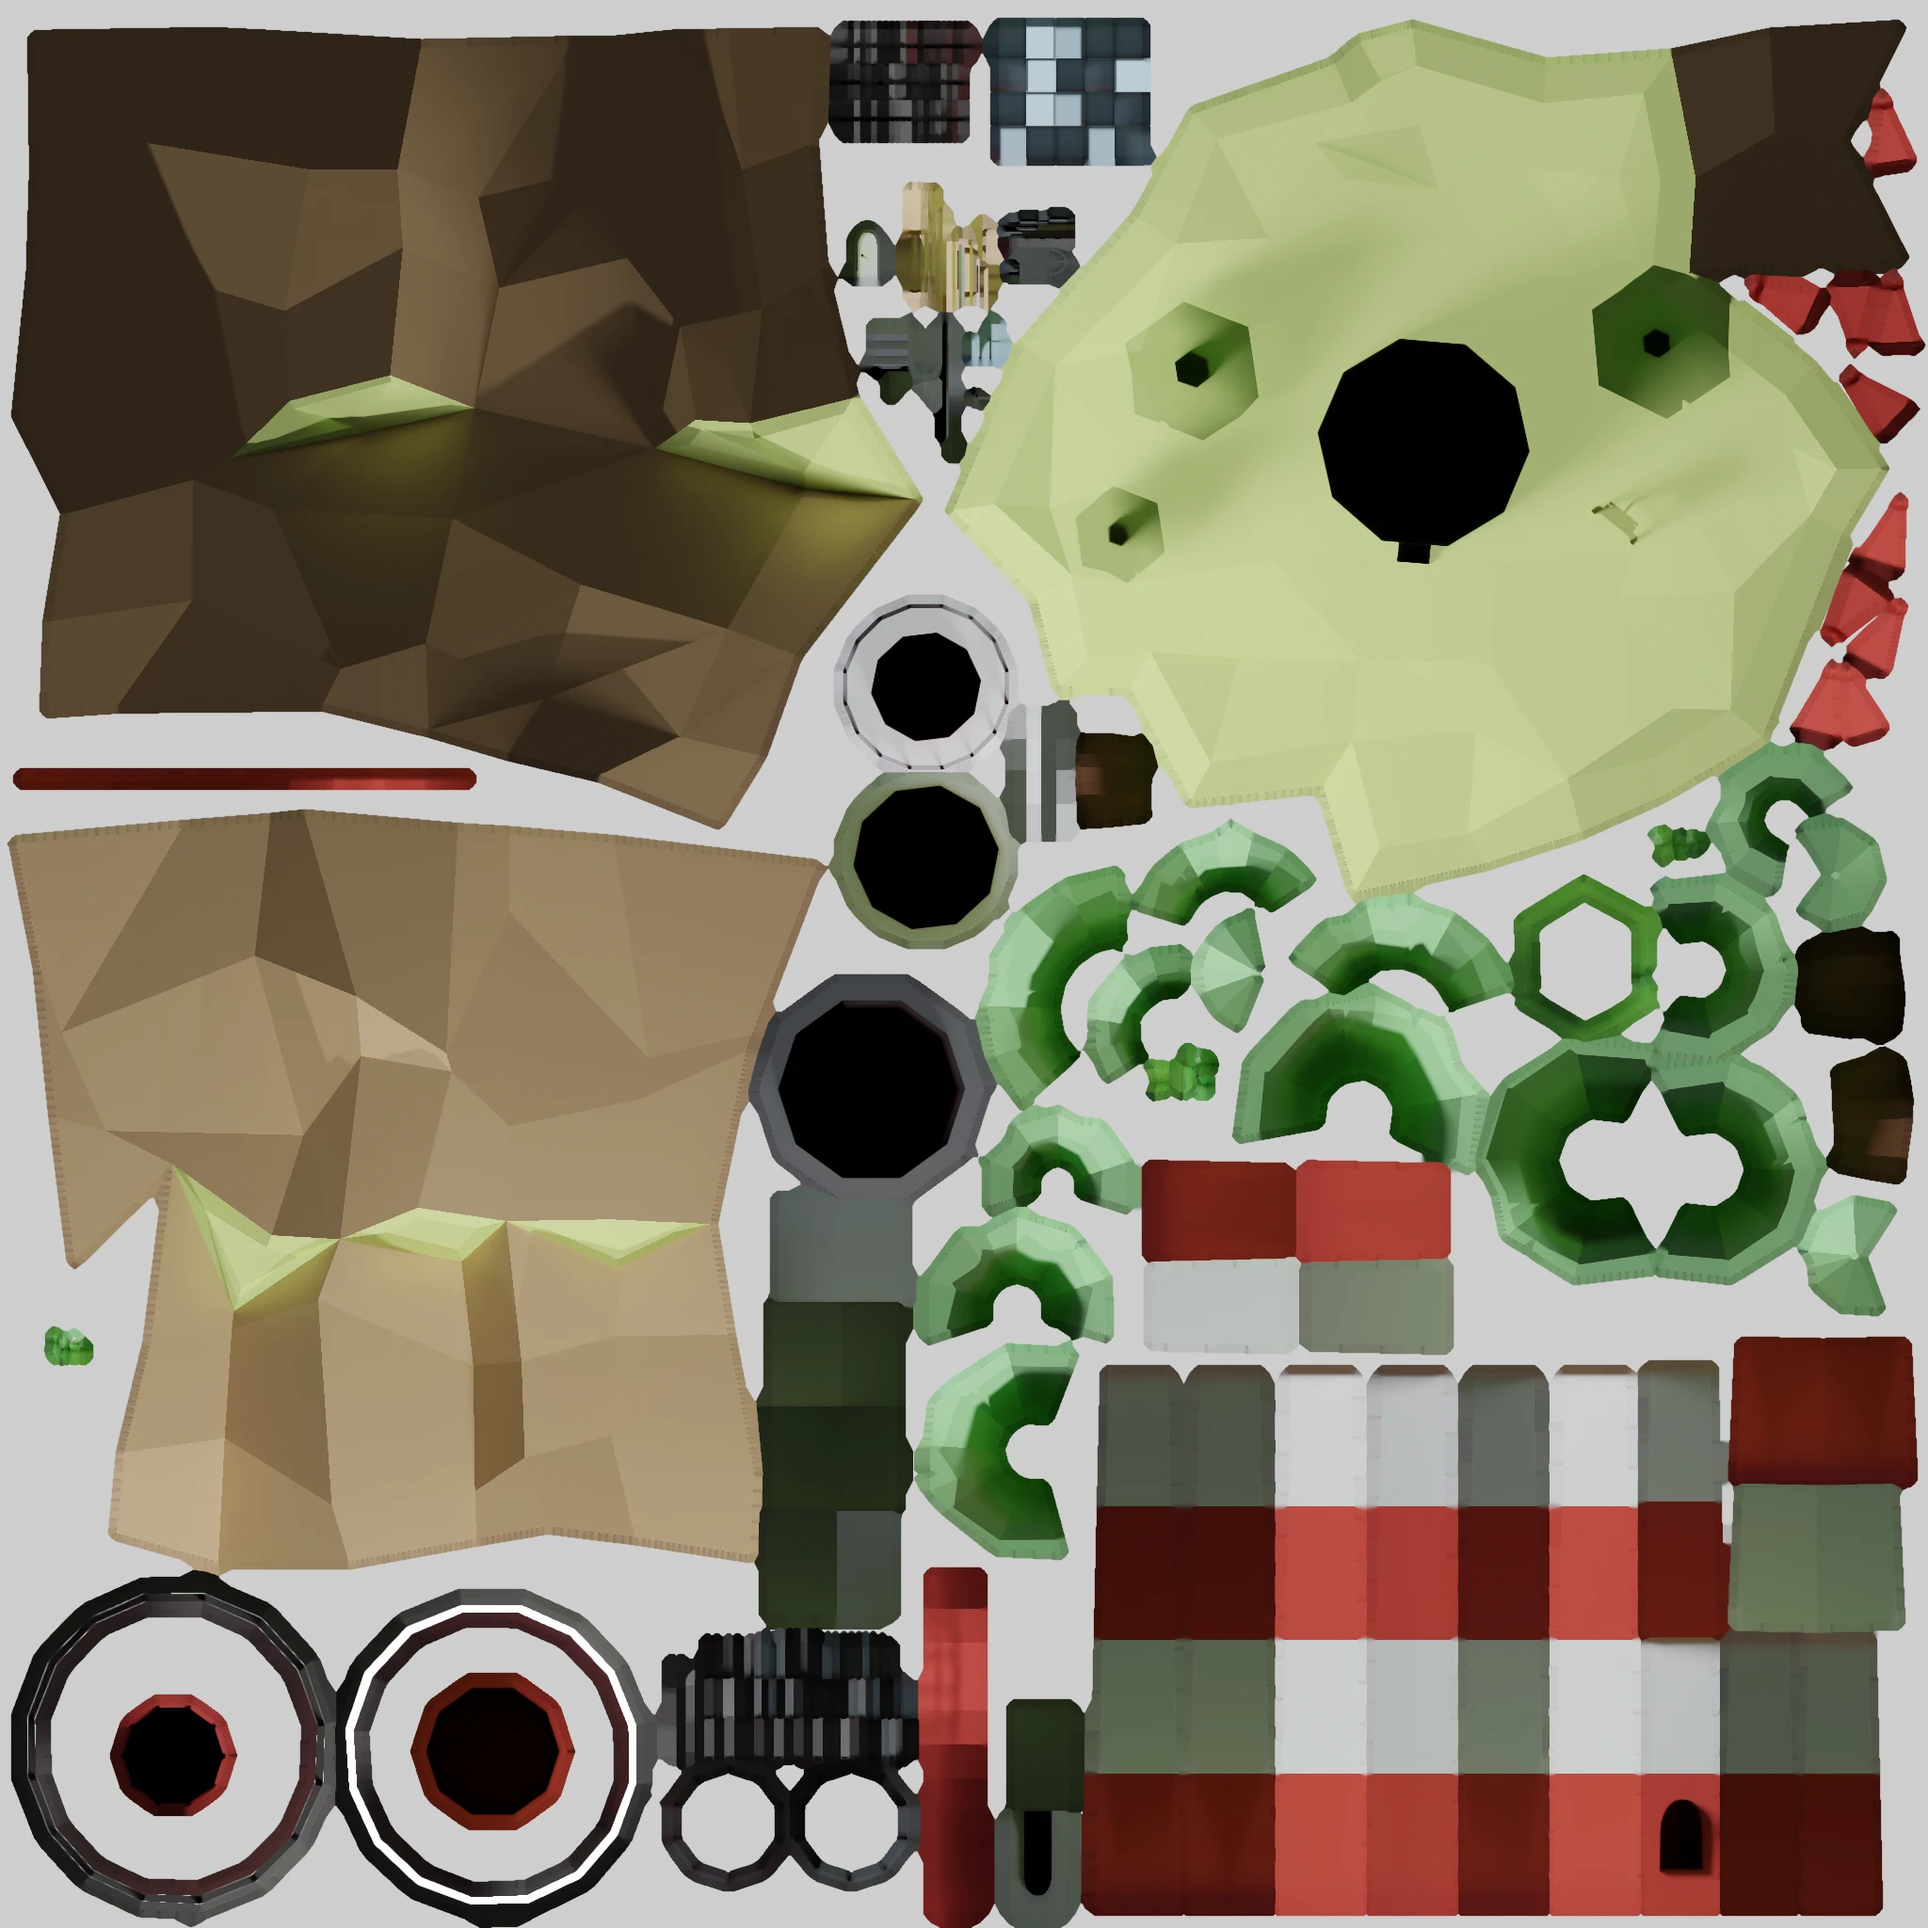
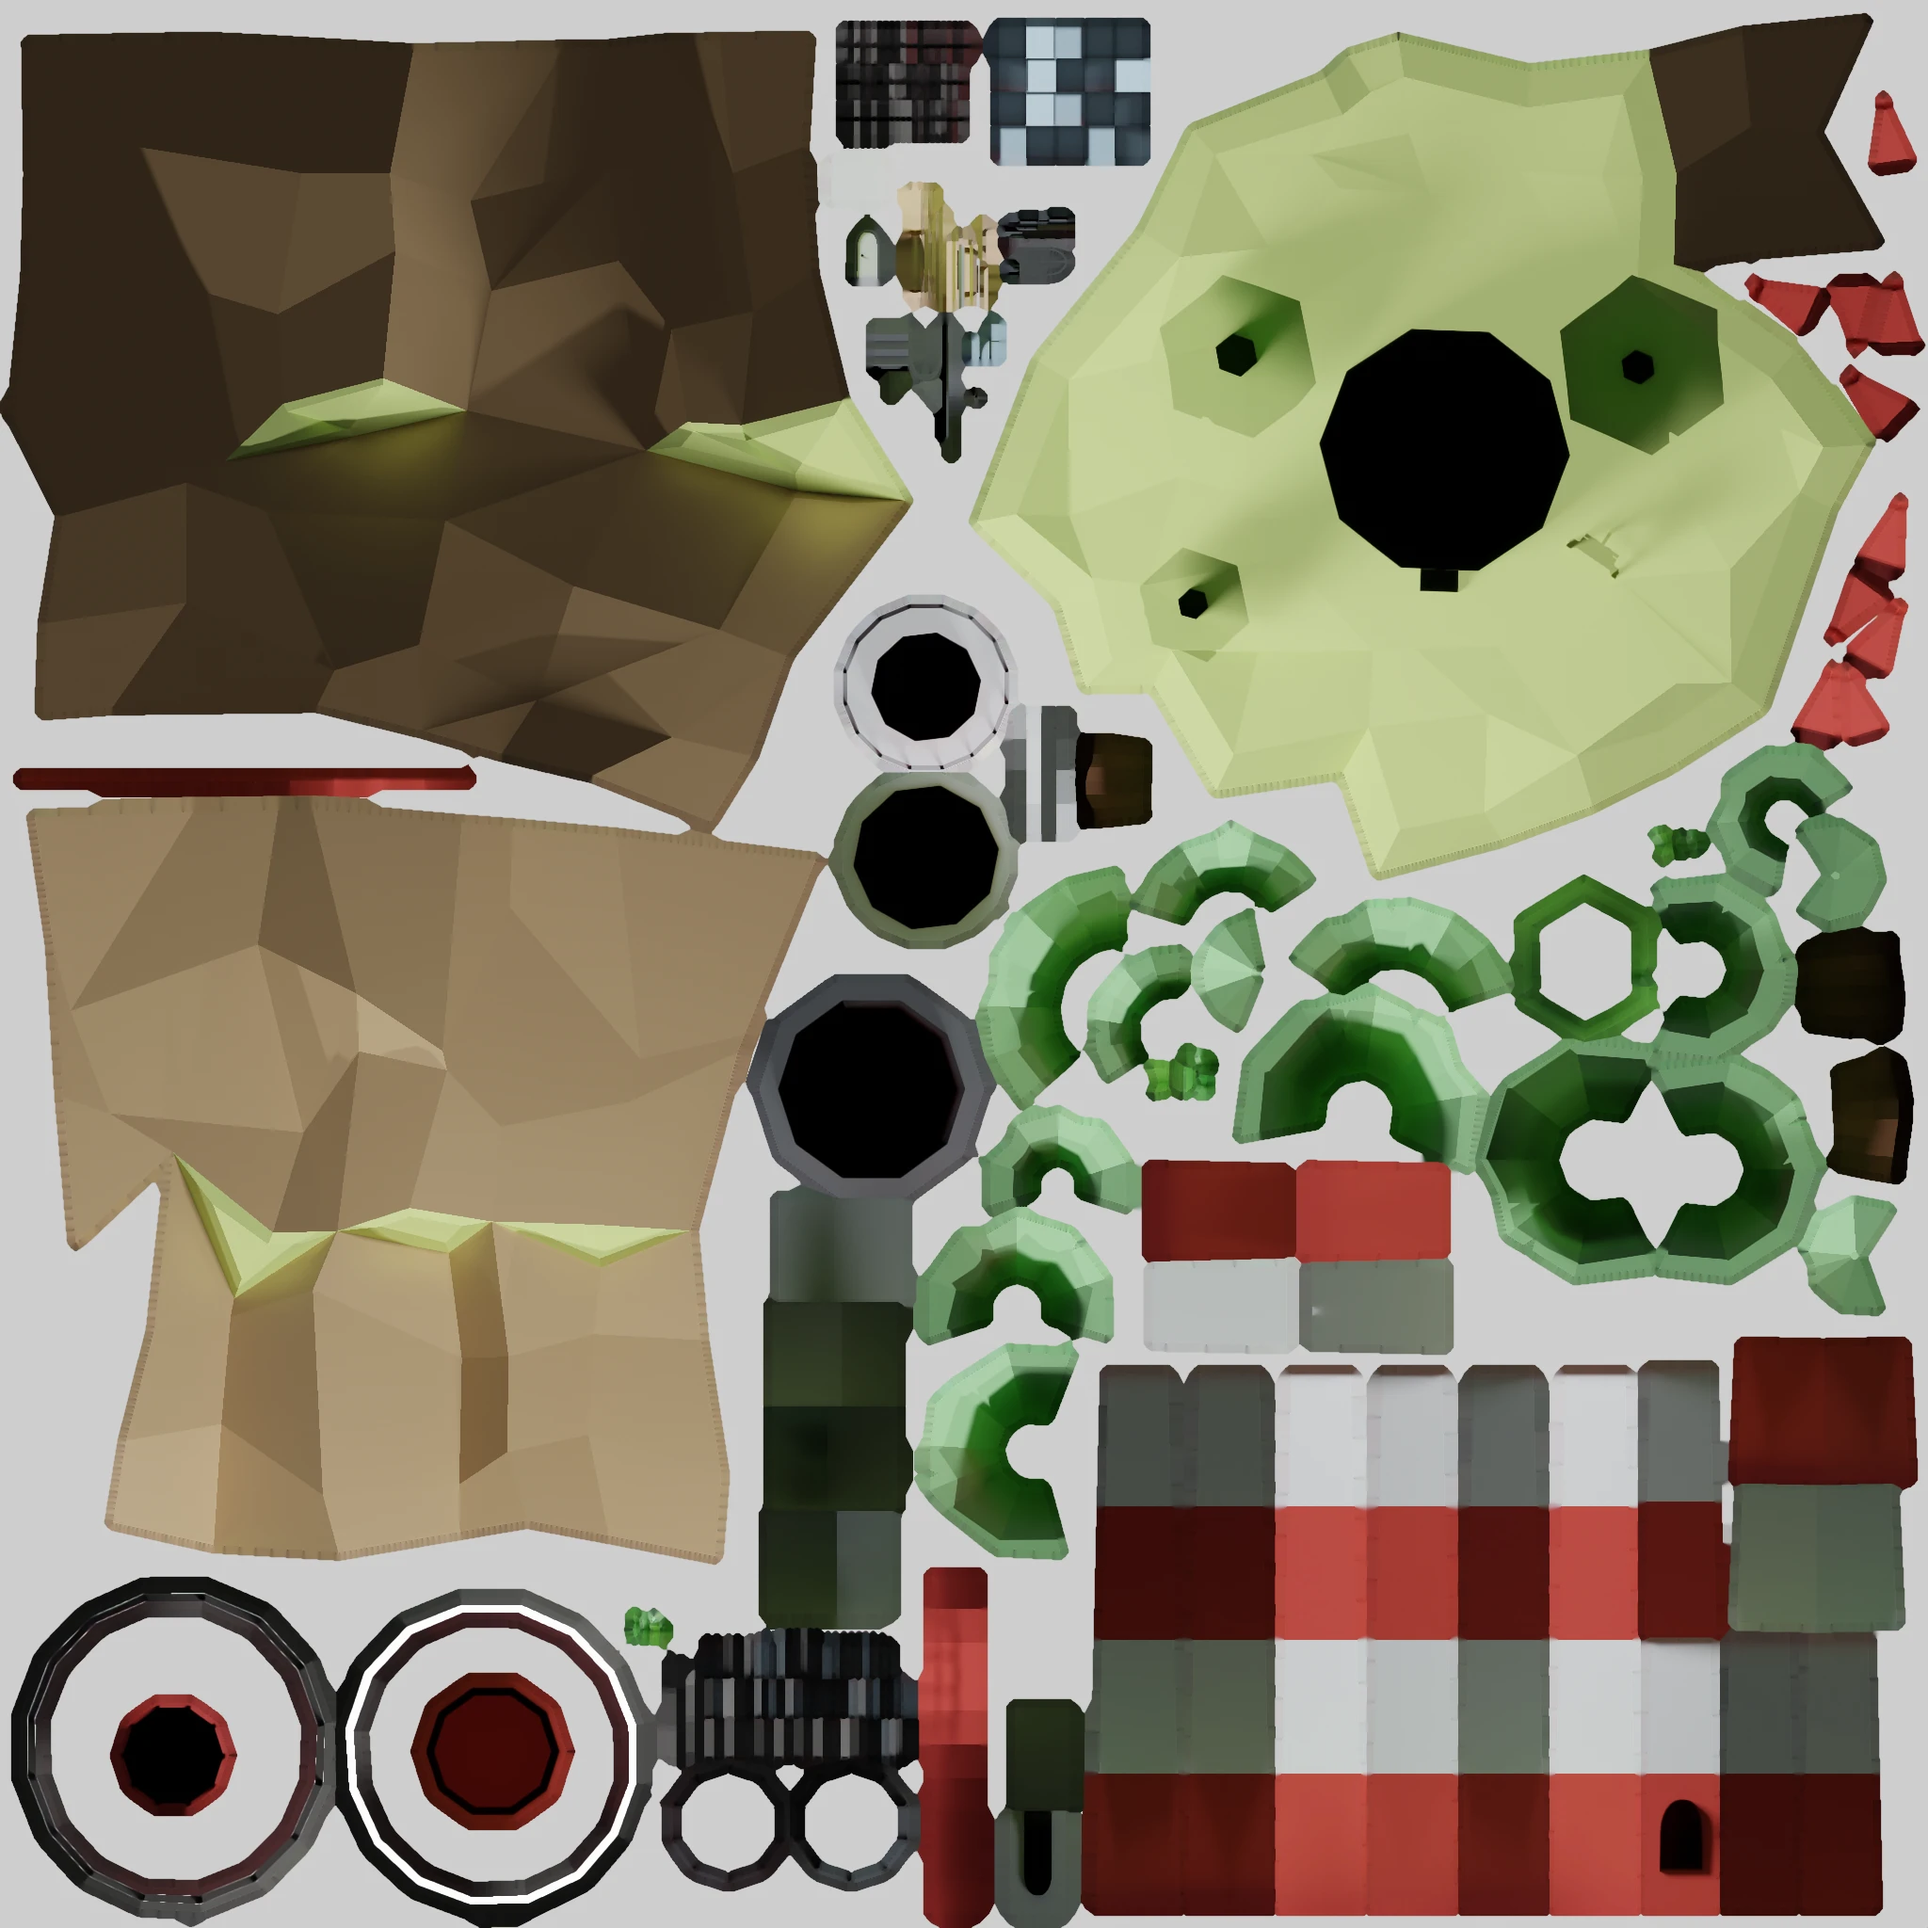
feat: update lighthouse model

diff --git a/src/components/experience/LighthouseModel.tsx b/src/components/experience/LighthouseModel.tsx
@@ -22,7 +22,7 @@ interface CanvasPhotosUniforms {
 declare module '@react-three/fiber' {
     interface ThreeElements {
         canvasPhotosMaterial: Object3DNode<typeof CanvasPhotosMaterial, typeof CanvasPhotosMaterial> &
-            CanvasPhotosUniforms
+        CanvasPhotosUniforms
     }
 }
 
@@ -40,33 +40,42 @@ const CanvasPhotosMaterial = shaderMaterial(
 
 extend({ CanvasPhotosMaterial })
 
+
 type GLTFResult = GLTF & {
     nodes: {
-        canvas: THREE.Mesh
-        lightHouse: THREE.Mesh
-        wall: THREE.Mesh
-        ['1stFloor']: THREE.Mesh
-        globe: THREE.Mesh
-        lightBulb: THREE.Mesh
-        ['2ndFloor']: THREE.Mesh
-    }
-    materials: {}
-}
+        lightHouse: THREE.Mesh;
+        wall: THREE.Mesh;
+        ["1stFloor"]: THREE.Mesh;
+        globe: THREE.Mesh;
+        lightBulb: THREE.Mesh;
+        ["2ndFloor"]: THREE.Mesh;
+    };
+    materials: {};
+};
 
 export default function LighthouseModel(props: JSX.IntrinsicElements['group']) {
     const { isLightMode } = useContext(AppContext)
     const canvasPhotosRef = useRef<unknown>()
     const { nodes } = useGLTF('/lighthouse.glb') as GLTFResult
     // const { nodes } = useGLTF('/lighthouse.glb') as GLTFResult
-    const [lighthouseTexture, firstFloorTexture, davidArtTexture, davidPhotoTexture, displacementTexture] = useTexture([
+    const [
+        lighthouseTexture,
+        firstFloorTexture,
+        secondFloorTexture,
+        davidArtTexture,
+        davidPhotoTexture,
+        displacementTexture
+    ] = useTexture([
         '/lighthouse_bake.webp',
         '/lighthouse_1stFloor_bake.webp',
+        '/lighthouse_2ndFloor_bake.webp',
         '/david_art.webp',
         '/david_photo.webp',
         '/water_displacement_map.jpg'
     ])
     lighthouseTexture.flipY = false
     firstFloorTexture.flipY = false
+    secondFloorTexture.flipY = false
 
     // const { position, rotation } = useControls('Canvas', {
     //     position: {
@@ -98,8 +107,8 @@ export default function LighthouseModel(props: JSX.IntrinsicElements['group']) {
                 1.4,
                 delta
             ) as number
-            ;(canvasPhotosRef as React.MutableRefObject<CanvasPhotosUniforms>).current.uDisplacementFactor =
-                dampedDisplacementFactor
+                ; (canvasPhotosRef as React.MutableRefObject<CanvasPhotosUniforms>).current.uDisplacementFactor =
+                    dampedDisplacementFactor
         }
     })
 
@@ -170,17 +179,16 @@ export default function LighthouseModel(props: JSX.IntrinsicElements['group']) {
         //     </mesh>
         // </group>
 
-        <group {...props} dispose={null}>
-            <mesh
-                name='canvas'
-                geometry={nodes.canvas.geometry}
-                material={nodes.canvas.material}
-                position={[-0.059, 4.622, -1.253]}
-            />
-            <mesh name='lightHouse' geometry={nodes.lightHouse.geometry} material={nodes.lightHouse.material}>
+        <group {...props} dispose={null} scale={0.3} rotation={[0, -Math.PI * 0.65, 0]}>
+            <mesh         name="lightHouse"
+        geometry={nodes.lightHouse.geometry}
+        material={nodes.lightHouse.material}
+        position={[-0.062, 0, 0.115]}>
                 <meshBasicMaterial map={lighthouseTexture} />
             </mesh>
-            <mesh name='wall' geometry={nodes.wall.geometry} material={nodes.wall.material}>
+            <mesh         name="wall"
+        geometry={nodes.wall.geometry}
+        material={nodes.wall.material}>
                 <meshBasicMaterial map={lighthouseTexture} transparent opacity={0} />
             </mesh>
             <mesh
@@ -207,15 +215,18 @@ export default function LighthouseModel(props: JSX.IntrinsicElements['group']) {
                 material={nodes.lightBulb.material}
                 position={[0.083, 5.031, 0.049]}
                 rotation={[0, 0.439, 0]}
-            />
+            >
+                <meshBasicMaterial color='white' />
+            </mesh>
             <mesh
-                name='2ndFloor'
-                geometry={nodes['2ndFloor'].geometry}
-                material={nodes['2ndFloor'].material}
+                name="2ndFloor"
+                geometry={nodes["2ndFloor"].geometry}
+                material={nodes["2ndFloor"].material}
                 position={[-0.156, 5.38, 0.019]}
                 rotation={[0, 0.439, 0]}
-                scale={[0.029, 0.197, 0.029]}
-            />
+            >
+                <meshBasicMaterial map={secondFloorTexture} />
+            </mesh>
         </group>
     )
 }
